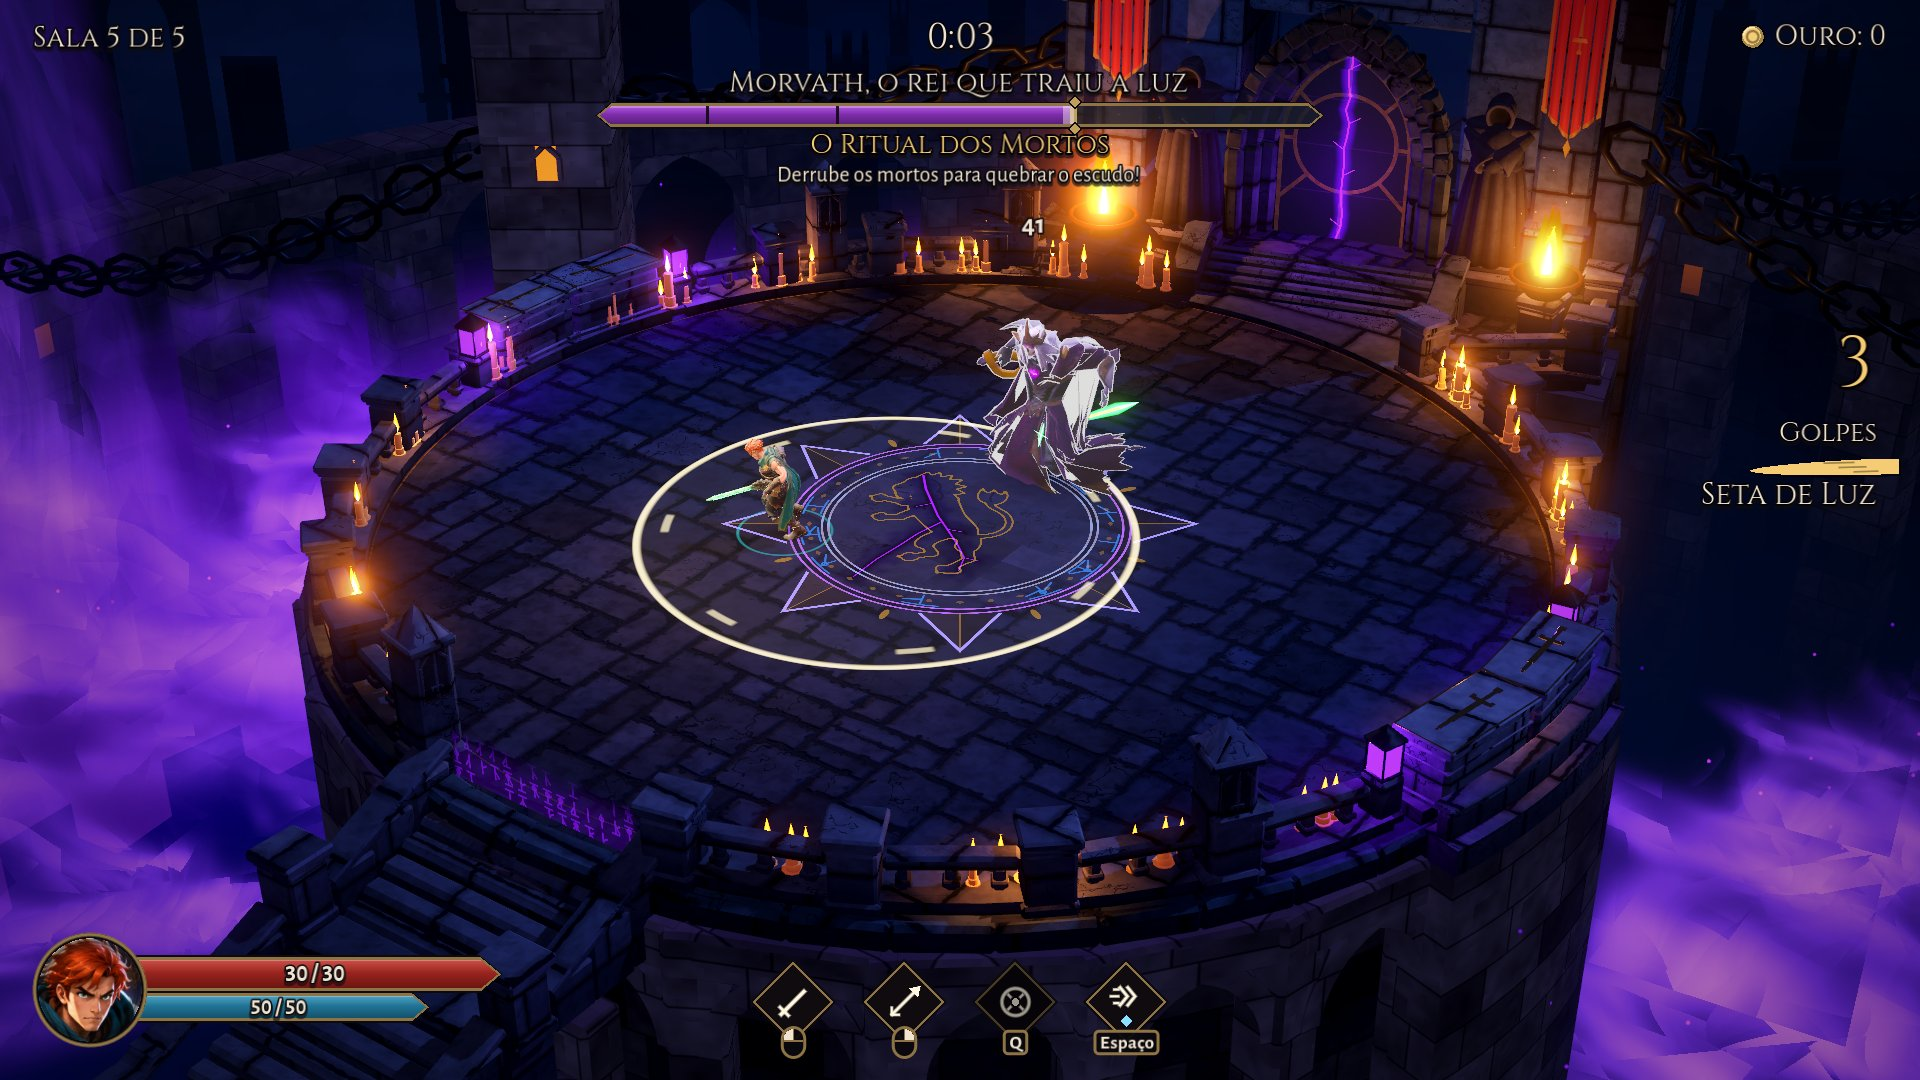
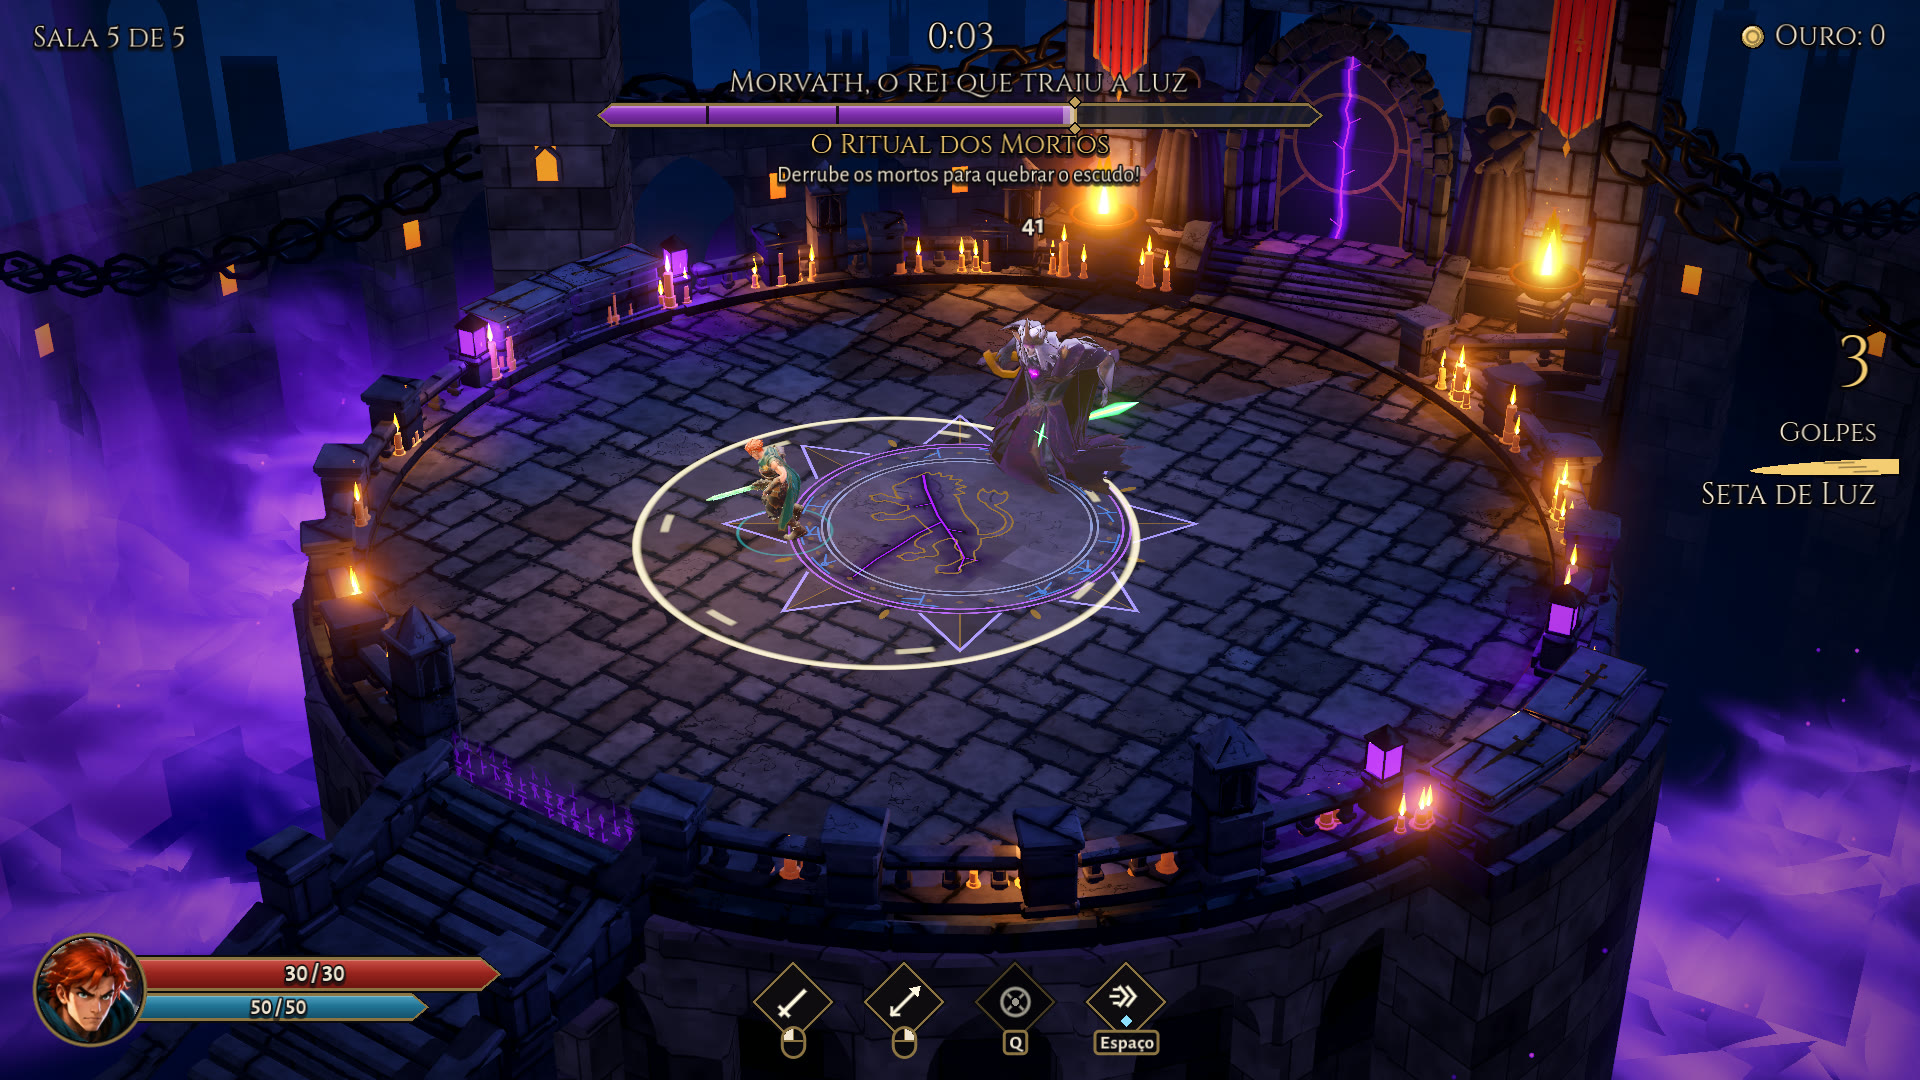
Art review fixes for the Seal Chamber: lighter chamber floor (luminance 21 to 42, hall unchanged), the six storm lanes each draw only their own wedge (no stacking to near white) and stay clear of Morvath, eruptions with the red signed core, frost columns between the boss and the camera dimmed and ca

diff --git a/docs/gallery/boss_arena/CAPTURAS.md b/docs/gallery/boss_arena/CAPTURAS.md
@@ -10,6 +10,14 @@ quadros inteiros (ou recortes, no `selo_estados`) com uma faixa de rótulo **aci
 (feita por IA), não o jogo**; a direita é o jogo.
 
 - **Depois**: `6bab080` (HEAD de `arpg-3d`), espelho padrão `C:/Users/danie/tools/eterra-gpu`.
+- **Refeitas em 2026-11-16 pela rodada de correções da revisão de arte (P1, P2, P4, P5, P6 do `ART_REVIEW.md`)**, sobre o
+  `76e8fe7` com as correções ainda sem commit, espelho próprio `C:/Users/danie/tools/eterra-gpu-p5`, os mesmos comandos
+  abaixo: `01` a `10` e as variantes, `selo_estados`, `borda_e_camera`, `lado_a_lado_referencia`, a metade "depois" dos cinco
+  antes e depois (a metade "antes" é a mesma, recortada da montagem anterior) e a nova `11_geada_golpe_forte`. Nesta rodada
+  o PNG da Godot virou JPG pelo ffmpeg (`-q:v 3`), não pelo `save_jpg`; as montagens com o mesmo `ffmpeg` (`scale`, `pad`,
+  `drawtext`, Alegreya Sans Bold). O texto "o que se vê" das tabelas é o das capturas anteriores: o enquadramento e o
+  momento são os mesmos; mudaram o chão (mais claro), o céu (azul), as janelinhas do anel distante, as faixas da
+  tempestade (cada uma na sua cunha, nada a 1,2 m de Morvath) e o miolo vermelho das erupções.
 - **Antes**: `2de07b0` (fim do ciclo 9, salão retangular), extraído com `git archive 2de07b0 | tar -x -C
   /home/dani/games/qa1011-before`, espelho `C:/Users/danie/tools/eterra-gpu-qa1011b`. A queimadura também foi tirada no
   `196f33c` (fim do C10), espelho `eterra-gpu-qa1011c`. Cópias e espelhos apagados ao fim.
@@ -39,19 +47,20 @@ quadros inteiros (ou recortes, no `selo_estados`) com uma faixa de rótulo **aci
 | `10_vitoria_selagem.jpg` | `--bot --boss-hp=0.02 --shot-at=1 --shot-on=boss:victory --shot-after=3.3` | 5,7 s; selo de ouro com a estrela de luz no centro, porta fechada sem o raio, texto da selagem |
 | `10a_vitoria_1s2.jpg` | o mesmo com `--shot-after=1.2` | 3,6 s; veios violeta recuando para o selo, a energia verde de Morvath sobre ele |
 | `10b_vitoria_2s5.jpg` | o mesmo com `--shot-after=2.5` | 4,9 s; o texto "A magia de Morvath se desfaz..." e o selo clareando |
+| `11_geada_golpe_forte.jpg` | `--bot --boon-ids=golpe_geada,toque_geada,circulo_geada,passo_geada,estilhaco,peso_inverno --shot-at=12 --shot-on=omega --shot-after=0.1` (P3/P4; 0,03 s depois cai no quadro de impacto em preto e branco, que é de propósito) | 26,0 s; o Ômega de geada (203) acaba de atravessar Morvath: o corpo dele fica cinza-lavanda pela geada (congelado), com a coroa e o manto legíveis, sem o quadro marfim de antes (o pisca do chefe para em `Horde.BOSS_FLASH` 0,8, abaixo do `white_from` 0,85). Numa sequência de 150 quadros (0,1 s) com o mesmo kit, nenhum quadro com o corpo dele coberto de branco |
 
 ## Extras
 
 | Arquivo | Como |
 |---|---|
-| `selo_estados.jpg` | recortes de 700 x 400 em volta do selo (x 610, y 330) de `01`, `05a`, `05`, `cycle10/fase4_clima` (fase 4 sem tempestade: `shot --bot --boss-hp=0.14 --shot-at=6`, 5,9 s; na `09` as faixas cobrem o selo) e `10`, com rótulo acima |
+| `selo_estados.jpg` | recortes de 700 x 400 em volta do selo (x 610, y 330) de `01`, `05a`, `05`, `fase4_clima` (fase 4 sem tempestade: `shot --bot --boss-hp=0.14 --shot-at=6`, 5,9 s; refeita nesta rodada, fora da pasta; na `09` as faixas cobrem o selo) e `10`, com rótulo acima |
 | `borda_e_camera.jpg` | cinco `shot --no-boss --shot-at=2` com `--hero-at=0,12`, `12,0`, `0,-12`, `8.5,8.5` e `9.7,5.7`. Em todos o herói fica a mais de 18% das bordas (medido a olho no quadro inteiro: a menor folga é a de `12,0`, herói perto de x 1510 de 1920, 21% da borda direita). Em `12,0` ele aparece em pé **sobre a tampa do sarcófago sudeste**, e em `8.5,8.5` sobre as velas da balaustrada (ver o relatório de QA). Em `9.7,5.7` o herói ficou na frente do pilarete, não atrás: o pontilhado não aparece neste quadro |
 | `before_after_arena.jpg` | `shot --shot-at=1` no `2de07b0` e no `6bab080` |
 | `before_after_investida.jpg` | **comandos diferentes**: o antes é `--boss-only=dash --shot-at=2 --shot-on=boss:dash --shot-after=1.05` sem robô (o `2de07b0` não tem `--bot-kite`); na câmara esse comando sem robô **nunca dá investida** (esperou 300 s e foi cancelado: o herói parado na boca da escadaria fica perto demais ou sem os 8 m livres que a regra nova pede), então o depois é o `04b` (`--bot --bot-kite=1`) |
 | `before_after_ritual.jpg` | ritual + 1,2 s nos dois (o antes ainda tem o ponto branco no escudo que o C10 tirou) |
 | `before_after_tempestade.jpg` | tempestade + 0,5 s nos dois |
 | `before_after_vitoria.jpg` | vitória + 3,3 s nos dois |
-| `lado_a_lado_referencia.jpg` | cópia de `work/chamber_09_side_by_side_reference.jpg` (pintura de IA à esquerda, jogo à direita) |
+| `lado_a_lado_referencia.jpg` | pintura de IA à esquerda; à direita o jogo, refeito nesta rodada com `tools/gpu.sh run --rendering-driver vulkan --resolution 1920x1080 -s tools/chamber_lab.gd -- <saída> --hero --boss` (câmara sem HUD, herói na boca da escadaria e Morvath sobre o selo) |
 
 Descartadas: `before_after_investida` com o mesmo comando nos dois (cancelada, acima); `c10_fase4_clima` com
 `--shot-on=boss:phase` (com `--boss-hp=0.14` a fase 4 começa antes dos 2 s de espera e o momento não vem de novo:

diff --git a/CLAUDE.md b/CLAUDE.md
@@ -382,6 +382,17 @@ worktree). Tarefa pequena o Game Director faz direto. Protocolo completo: `docs/
   Opções: `--no-boss`, `--hero-at=x,z`. O robô escolhe o vão (`Bot._escape` evita outros avisos) e conta "preso" (`RESULT`
   `bot.stuck`, `died_stuck`). Testes: `test_floor_shape.gd`, `test_boss_exits.gd` (saída de cada padrão, 12 x 12 posições),
   `test_boss_chamber.gd`, `test_chamber_look.gd`.
+  Revisão de arte da câmara (`docs/gallery/boss_arena/ART_REVIEW.md`, P1 a P6, 2026-11-16): chão da câmara mais claro e um
+  pouco mais quente só nela (`BossChamber.FLOOR_A`/`FLOOR_B`; o salão não muda); céu, névoa das agulhas e bordas de volta
+  ao azul da pintura (`SKY`, `SPIRE_*`); anel distante de arcadas de 200° a 470° (`FAR_SPAN`) com uma janelinha quente em
+  cada pilar (`FAR_WINDOW`, `FAR_WINDOW_GLASS`, `WINDOW_EVERY`). Tempestade: cada faixa só desenha a sua cunha em volta da
+  raiz (metade do ângulo até cada vizinha, `GroundLook.storm_wedges`, `Ground.storm_wedge`, `wedge` no `ground.gdshader`),
+  então nada soma; nada a menos de 1,2 m de Morvath (`GroundLook.STORM_CLEAR`), miolo mais fraco perto dele
+  (`STORM_SOFT`, `STORM_ROOT_FILL`) e mais leve no todo (`STORM_FILL` 0,2; testes em `tests/test_storm_wedge.gd`).
+  Erupções com o miolo vermelho da assinatura dentro do círculo (`danger*` no `ritual_rune.gdshader`, `Ground.RUNE_DANGER`).
+  Colunas de dom sobre o chefe: também as que ficam entre ele e a câmera (`Skills.over_boss` com altura, yaw e pitch),
+  fracas e com o miolo limitado a 1,0 (`Skills.BEAM_CORE_CAP`, `cap` no `beam.gdshader`); golpe forte no chefe pisca no
+  máximo `Horde.BOSS_FLASH` 0,8, abaixo do `white_from` (antes o 1º quadro de um Ômega de geada deixava Morvath marfim).
 - Colisão do cenário: pilares são círculos (`RoomLayout.pillars`); escadas, entulho e barris são caixas sólidas
   (`Arena.boxes`, pelo `solid` de `_place`). Sai-se da sala pisando no pé da escada (`Arena.exit_at`).
 - Corpos sólidos como no Hades II (`StopsUnits` na heroína e nos inimigos; pedido do Daniel, 2026-11-15: "trombar nos
